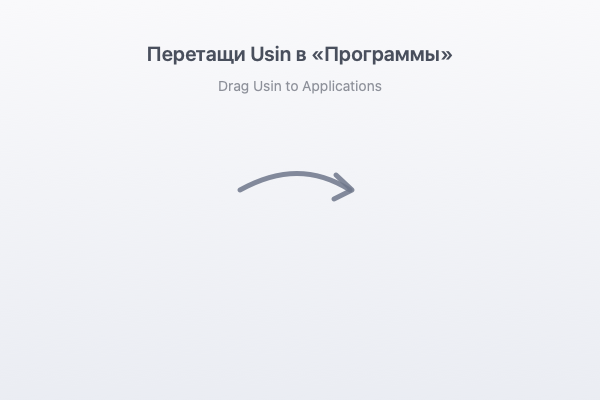
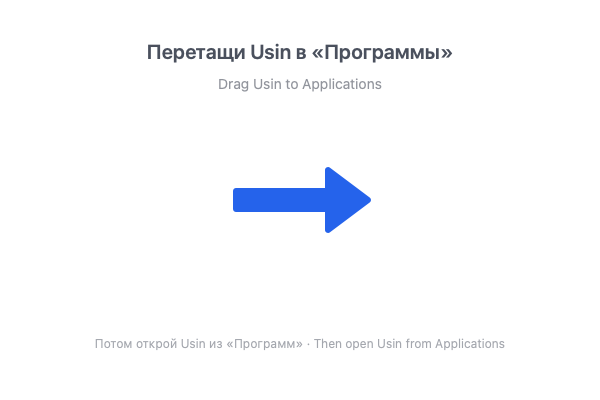
Окно установки со стрелкой и новый значок
- Образ: Usin слева, «Программы» справа, большая стрелка между ними. Раскладку окна задаёт
  .DS_Store, который пишет Scripts/dmg/ds-store.swift, — без управления Finder.
- Значок: белый фон и синяя сфера, как большой круг на холсте. Версия 0.6.2.

diff --git a/Scripts/dmg/ds-store.swift b/Scripts/dmg/ds-store.swift
@@ -1,0 +1,171 @@
+// Пишет .DS_Store для окна установочного образа: Usin слева, «Программы» справа, фон со стрелкой.
+// Так Finder показывает окно «как в других приложениях», а управлять самим Finder не нужно.
+//   swift Scripts/dmg/ds-store.swift /Volumes/Usin-123 Usin.app
+// Образ должен быть подключён: ссылке на фон нужны номера файлов и дата создания тома.
+import Foundation
+
+let args = CommandLine.arguments
+guard args.count == 3 else { print("usage: ds-store.swift <volume> <App.app>"); exit(2) }
+let volume = URL(fileURLWithPath: args[1])
+let appName = args[2]
+let backgroundRel = ".background/background.png"
+let background = volume.appendingPathComponent(backgroundRel)
+
+// Окно и значки: фон 600×400, центры значков — как на фоне (стрелка между ними).
+let window = (x: 200, y: 120, w: 600, h: 400)
+let iconSize = 128.0
+let positions: [String: (Int, Int)] = [appName: (150, 200), "Applications": (450, 200)]
+
+// MARK: - Байты
+
+struct Bytes {
+    var data = Data()
+    mutating func u8(_ v: UInt8) { data.append(v) }
+    mutating func u16(_ v: UInt16) { withUnsafeBytes(of: v.bigEndian) { data.append(contentsOf: $0) } }
+    mutating func i16(_ v: Int16) { u16(UInt16(bitPattern: v)) }
+    mutating func u32(_ v: UInt32) { withUnsafeBytes(of: v.bigEndian) { data.append(contentsOf: $0) } }
+    mutating func raw(_ d: Data) { data.append(d) }
+    mutating func ascii(_ s: String) { data.append(s.data(using: .ascii)!) }
+    mutating func pascal(_ s: String, field: Int) {
+        let d = Data(s.utf8.prefix(field - 1))
+        u8(UInt8(d.count)); raw(d); raw(Data(count: field - 1 - d.count))
+    }
+    mutating func utf16(_ s: String) { for c in s.utf16 { u16(c) } }
+    mutating func pad(to n: Int) { if data.count < n { data.append(Data(count: n - data.count)) } }
+}
+
+// MARK: - Ссылка на фон (старая alias-запись: её до сих пор читает icvp) и закладка (pBBk)
+
+let hfsEpoch = 2_082_844_800.0
+func hfsDate(_ d: Date) -> UInt32 { UInt32(max(0, d.timeIntervalSince1970 + hfsEpoch)) }
+func cnid(_ url: URL) -> UInt32 {
+    let attrs = try! FileManager.default.attributesOfItem(atPath: url.path)
+    return UInt32(truncatingIfNeeded: (attrs[.systemFileNumber] as! NSNumber).uint64Value)
+}
+
+let volValues = try! volume.resourceValues(forKeys: [.volumeNameKey, .volumeCreationDateKey])
+let volName = volValues.volumeName!
+let folder = background.deletingLastPathComponent()
+let bgCreated = (try! FileManager.default.attributesOfItem(atPath: background.path))[.creationDate] as! Date
+
+func alias() -> Data {
+    var b = Bytes()
+    b.raw(Data(count: 4)); b.u16(0); b.u16(2)                   // приложение, длина (позже), версия 2
+    b.u16(0)                                                     // файл
+    b.pascal(volName, field: 28)
+    b.u32(hfsDate(volValues.volumeCreationDate!))
+    b.ascii("H+"); b.u16(5)                                      // HFS+, съёмный диск
+    b.u32(cnid(folder))
+    b.pascal(background.lastPathComponent, field: 64)
+    b.u32(cnid(background)); b.u32(hfsDate(bgCreated))
+    b.raw(Data(count: 8))                                        // тип и создатель
+    b.i16(-1); b.i16(-1); b.u32(0); b.raw(Data(count: 2)); b.raw(Data(count: 10))
+    func tag(_ t: Int16, _ d: Data) {
+        b.i16(t); b.u16(UInt16(d.count)); b.raw(d); if d.count % 2 == 1 { b.u8(0) }
+    }
+    func uni(_ s: String) -> Data { var x = Bytes(); x.u16(UInt16(s.utf16.count)); x.utf16(s); return x.data }
+    tag(0, Data(folder.lastPathComponent.utf8))
+    var path = Bytes(); path.u32(cnid(folder)); tag(1, path.data)
+    tag(2, Data("\(volName):\(backgroundRel.replacingOccurrences(of: "/", with: ":"))".utf8))
+    tag(14, uni(background.lastPathComponent))
+    tag(15, uni(volName))
+    tag(18, Data("/\(backgroundRel)".utf8))
+    tag(19, Data("/Volumes/\(volName)".utf8))   // там образ окажется у пользователя
+    b.i16(-1); b.u16(0)
+    var data = b.data
+    let len = UInt16(data.count).bigEndian
+    withUnsafeBytes(of: len) { data.replaceSubrange(4..<6, with: $0) }
+    return data
+}
+
+func plist(_ object: [String: Any]) -> Data {
+    try! PropertyListSerialization.data(fromPropertyList: object, format: .binary, options: 0)
+}
+
+let bwsp = plist([
+    "ContainerShowSidebar": false, "PreviewPaneVisibility": false, "ShowPathbar": false,
+    "ShowSidebar": false, "ShowStatusBar": false, "ShowTabView": false, "ShowToolbar": false,
+    "SidebarWidth": 0, "WindowBounds": "{{\(window.x), \(window.y)}, {\(window.w), \(window.h)}}",
+])
+let icvp = plist([
+    "arrangeBy": "none", "backgroundColorBlue": 1.0, "backgroundColorGreen": 1.0, "backgroundColorRed": 1.0,
+    "backgroundImageAlias": alias(), "backgroundType": 2, "gridOffsetX": 0.0, "gridOffsetY": 0.0,
+    "gridSpacing": 100.0, "iconSize": iconSize, "labelOnBottom": true, "scrollPositionX": 0.0,
+    "scrollPositionY": 0.0, "showIconPreview": true, "showItemInfo": false, "textSize": 13.0,
+    "viewOptionsVersion": 1,
+])
+let bookmark = try! background.bookmarkData(options: [], includingResourceValuesForKeys: nil, relativeTo: nil)
+
+// MARK: - Записи
+
+enum Value { case blob(Data), long(UInt32), type(String) }
+var records: [(name: String, code: String, value: Value)] = [
+    (".", "bwsp", .blob(bwsp)), (".", "icvp", .blob(icvp)), (".", "pBBk", .blob(bookmark)),
+    (".", "vSrn", .long(1)), (".", "icvl", .type("icnv")),
+]
+for (name, p) in positions {
+    var b = Bytes(); b.u32(UInt32(p.0)); b.u32(UInt32(p.1)); b.u32(0xFFFF_FFFF); b.u32(0xFFFF_0000)
+    records.append((name, "Iloc", .blob(b.data)))
+}
+records.sort { ($0.name.lowercased(), $0.code) < ($1.name.lowercased(), $1.code) }
+
+var leaf = Bytes()
+leaf.u32(0); leaf.u32(UInt32(records.count))
+for r in records {
+    leaf.u32(UInt32(r.name.utf16.count)); leaf.utf16(r.name); leaf.ascii(r.code)
+    switch r.value {
+    case .blob(let d): leaf.ascii("blob"); leaf.u32(UInt32(d.count)); leaf.raw(d)
+    case .long(let v): leaf.ascii("long"); leaf.u32(v)
+    case .type(let t): leaf.ascii("type"); leaf.ascii(t)
+    }
+}
+precondition(leaf.data.count <= 4096, "записи не помещаются в один узел")
+
+// MARK: - Файл: «buddy»-распределитель блоков (как у Finder)
+
+var free: [[UInt32]] = Array(repeating: [], count: 32)
+free[31] = [0]
+func allocate(_ size: Int) -> (offset: UInt32, width: UInt32) {
+    var w = 5
+    while (1 << w) < size { w += 1 }
+    var k = w
+    while free[k].isEmpty { k += 1 }
+    let off = free[k].removeFirst()
+    while k > w {
+        k -= 1
+        free[k].append(off + (1 << k)); free[k].sort()
+    }
+    return (off, UInt32(w))
+}
+
+_ = allocate(32)                         // заголовок файла
+let info = allocate(2048)                // блок 0 — таблица блоков
+let dsdb = allocate(32)                  // блок 1 — шапка дерева
+let node = allocate(4096)                // блок 2 — единственный лист
+let addresses = [info, dsdb, node].map { $0.offset | $0.width }
+
+var infoBlock = Bytes()
+infoBlock.u32(UInt32(addresses.count)); infoBlock.u32(0)
+for a in addresses { infoBlock.u32(a) }
+for _ in addresses.count..<256 { infoBlock.u32(0) }
+infoBlock.u32(1); infoBlock.u8(4); infoBlock.ascii("DSDB"); infoBlock.u32(1)
+for list in free { infoBlock.u32(UInt32(list.count)); for o in list { infoBlock.u32(o) } }
+precondition(infoBlock.data.count <= 2048)
+
+var dsdbBlock = Bytes()
+dsdbBlock.u32(2); dsdbBlock.u32(0); dsdbBlock.u32(UInt32(records.count)); dsdbBlock.u32(1); dsdbBlock.u32(0x1000)
+
+var file = Bytes()
+file.u32(1); file.ascii("Bud1"); file.u32(info.offset); file.u32(2048); file.u32(info.offset)
+file.raw(Data([0x00, 0x00, 0x10, 0x0C, 0x00, 0x00, 0x00, 0x87, 0x00, 0x00, 0x20, 0x0B, 0x00, 0x00, 0x00, 0x00]))
+func put(_ block: Bytes, at offset: UInt32, size: Int) {
+    file.pad(to: Int(offset) + 4)
+    precondition(file.data.count == Int(offset) + 4)
+    file.raw(block.data); file.pad(to: Int(offset) + 4 + size)
+}
+for (block, at, size) in [(infoBlock, info.offset, 2048), (dsdbBlock, dsdb.offset, 32), (leaf, node.offset, 4096)]
+    .sorted(by: { $0.1 < $1.1 }) {
+    put(block, at: at, size: size)
+}
+try! file.data.write(to: volume.appendingPathComponent(".DS_Store"))
+print("DS_Store: \(records.count) записей")

diff --git a/Scripts/dmg/make-background.swift b/Scripts/dmg/make-background.swift
@@ -13,28 +13,27 @@ func render(scale: CGFloat, to url: URL) {
     NSGraphicsContext.saveGraphicsState()
     NSGraphicsContext.current = NSGraphicsContext(bitmapImageRep: rep)
 
-    let bg = NSGradient(starting: NSColor(calibratedRed: 0.97, green: 0.97, blue: 0.98, alpha: 1),
-                        ending: NSColor(calibratedRed: 0.90, green: 0.91, blue: 0.94, alpha: 1))!
-    bg.draw(in: NSRect(origin: .zero, size: size), angle: -90)
+    NSColor.white.setFill()
+    NSRect(origin: .zero, size: size).fill()
 
-    // Стрелка между значками (значки стоят в x=150 и x=450, y=190 сверху → 210 снизу).
-    let y: CGFloat = 400 - 190
+    // Большая стрелка между значками (значки по центру x=150 и x=450, y=200 сверху → 200 снизу).
+    let y: CGFloat = 400 - 200
+    let ink = NSColor(srgbRed: 0x25 / 255.0, green: 0x63 / 255.0, blue: 0xEB / 255.0, alpha: 1)
     let arrow = NSBezierPath()
-    arrow.move(to: NSPoint(x: 240, y: y))
-    arrow.curve(to: NSPoint(x: 350, y: y), controlPoint1: NSPoint(x: 280, y: y + 22), controlPoint2: NSPoint(x: 315, y: y + 22))
-    arrow.lineWidth = 5
-    arrow.lineCapStyle = .round
-    let ink = NSColor(calibratedRed: 0.36, green: 0.39, blue: 0.47, alpha: 0.85)
+    arrow.move(to: NSPoint(x: 236, y: y + 9))
+    arrow.line(to: NSPoint(x: 328, y: y + 9))
+    arrow.line(to: NSPoint(x: 328, y: y + 30))
+    arrow.line(to: NSPoint(x: 368, y: y))
+    arrow.line(to: NSPoint(x: 328, y: y - 30))
+    arrow.line(to: NSPoint(x: 328, y: y - 9))
+    arrow.line(to: NSPoint(x: 236, y: y - 9))
+    arrow.close()
+    arrow.lineJoinStyle = .round
+    arrow.lineWidth = 6
+    ink.setFill()
     ink.setStroke()
+    arrow.fill()
     arrow.stroke()
-    let head = NSBezierPath()
-    head.move(to: NSPoint(x: 336, y: y + 15))
-    head.line(to: NSPoint(x: 352, y: y))
-    head.line(to: NSPoint(x: 334, y: y - 9))
-    head.lineWidth = 5
-    head.lineCapStyle = .round
-    head.lineJoinStyle = .round
-    head.stroke()
 
     let style = NSMutableParagraphStyle()
     style.alignment = .center
@@ -46,8 +45,9 @@ func render(scale: CGFloat, to url: URL) {
         ]
         NSString(string: s).draw(in: NSRect(x: 0, y: y, width: 600, height: size * 1.5), withAttributes: attrs)
     }
-    text("Перетащи Usin в «Программы»", y: 400 - 72, size: 20, weight: .semibold, alpha: 0.9)
-    text("Drag Usin to Applications", y: 400 - 98, size: 14, weight: .regular, alpha: 0.55)
+    text("Перетащи Usin в «Программы»", y: 400 - 70, size: 20, weight: .semibold, alpha: 0.9)
+    text("Drag Usin to Applications", y: 400 - 96, size: 14, weight: .regular, alpha: 0.55)
+    text("Потом открой Usin из «Программ» · Then open Usin from Applications", y: 46, size: 12, weight: .regular, alpha: 0.45)
 
     NSGraphicsContext.restoreGraphicsState()
     try! rep.representation(using: .png, properties: [:])!.write(to: url)

diff --git a/Scripts/icon/make-icon.swift b/Scripts/icon/make-icon.swift
@@ -1,4 +1,4 @@
-// Значок Usin: белый фон, белый круг с чёрной обводкой и большая «U» посередине.
+// Значок Usin: белый фон и посередине синяя сфера — как большой круг на холсте.
 //   swift Scripts/icon/make-icon.swift   (перерисовывает Usin/Assets.xcassets/AppIcon.appiconset)
 import AppKit
 
@@ -39,24 +39,27 @@ func draw(px: Int, mac: Bool) -> Data {
         tile.fill()
     }
 
-    // Круг: белый, с чёрной обводкой.
-    let d = tile.width * 0.70
-    let line = tile.width * 0.045
-    let circle = NSRect(x: tile.midX - d / 2, y: tile.midY - d / 2, width: d, height: d)
-    let ring = NSBezierPath(ovalIn: circle)
-    NSColor.white.setFill()
-    ring.fill()
-    NSColor.black.setStroke()
-    ring.lineWidth = line
-    ring.stroke()
-
-    // Большая «U».
-    let font = NSFont.systemFont(ofSize: d * 0.72, weight: .bold)
-    let text = NSAttributedString(string: "U", attributes: [.font: font, .foregroundColor: NSColor.black])
-    let b = text.boundingRect(with: NSSize(width: s, height: s), options: [.usesLineFragmentOrigin, .usesFontLeading])
-    // По вертикали центрируем саму букву (высота заглавных), а не строку целиком.
-    let y = circle.midY - (font.capHeight / 2) + font.descender - b.origin.y
-    text.draw(at: NSPoint(x: circle.midX - b.width / 2, y: y))
+    // Синяя сфера — как большой круг на холсте Usin (цвет «Синий», 0x2563EB, с бликом и тенью).
+    let blue = NSColor(srgbRed: 0x25 / 255.0, green: 0x63 / 255.0, blue: 0xEB / 255.0, alpha: 1)
+    let d = tile.width * 0.66
+    let circle = NSRect(x: tile.midX - d / 2, y: tile.midY - d / 2 + tile.width * 0.012, width: d, height: d)
+    let sphere = NSBezierPath(ovalIn: circle)
+    NSGraphicsContext.saveGraphicsState()
+    let glow = NSShadow()
+    glow.shadowColor = blue.withAlphaComponent(0.38)
+    glow.shadowBlurRadius = tile.width * 0.06
+    glow.shadowOffset = NSSize(width: 0, height: -tile.width * 0.028)
+    glow.set()
+    blue.setFill()
+    sphere.fill()
+    NSGraphicsContext.restoreGraphicsState()
+    // Блик сверху слева, как у сферы на холсте.
+    let highlight = NSGradient(colors: [NSColor(white: 1, alpha: 0.55), NSColor(white: 1, alpha: 0)])!
+    NSGraphicsContext.saveGraphicsState()
+    sphere.addClip()
+    let center = NSPoint(x: circle.minX + d * 0.32, y: circle.maxY - d * 0.26)
+    highlight.draw(fromCenter: center, radius: 0, toCenter: center, radius: d * 0.62, options: [])
+    NSGraphicsContext.restoreGraphicsState()
 
     NSGraphicsContext.restoreGraphicsState()
     return rep.representation(using: .png, properties: [:])!
